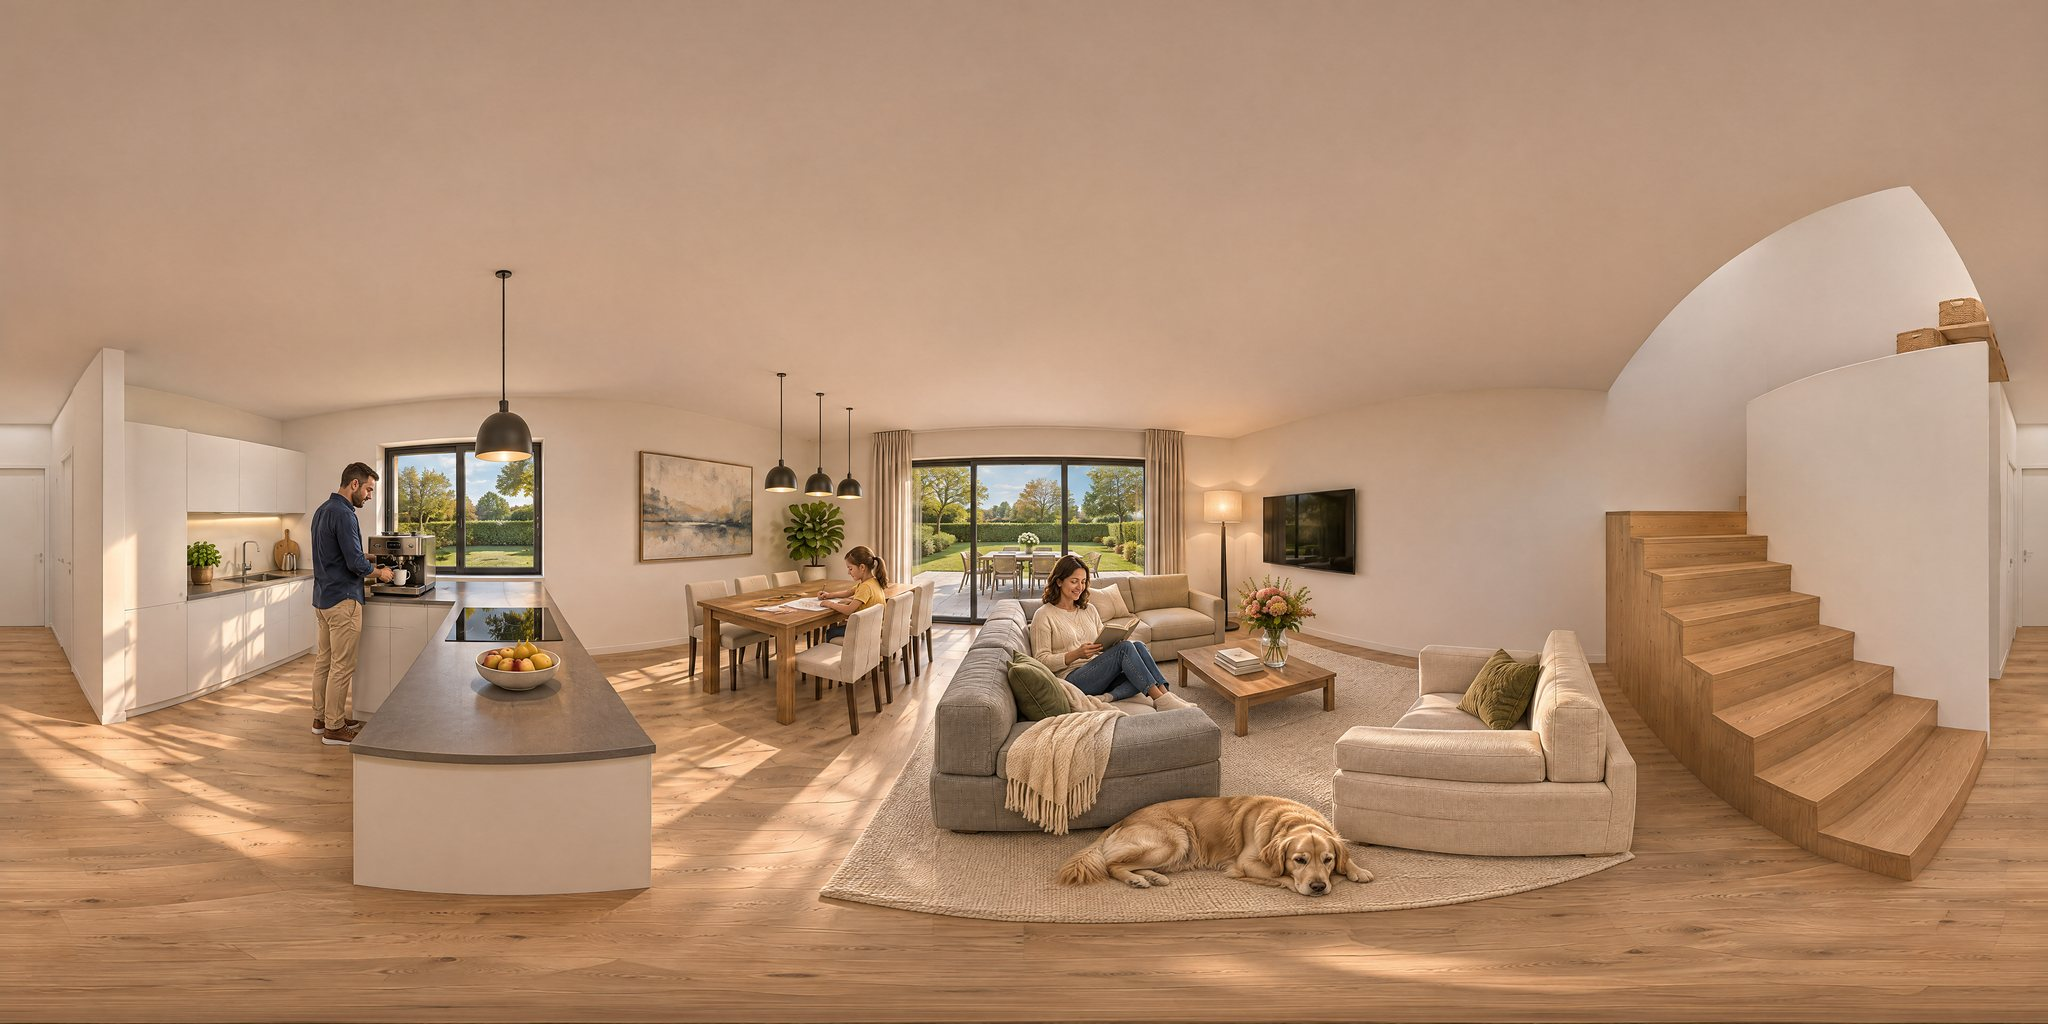
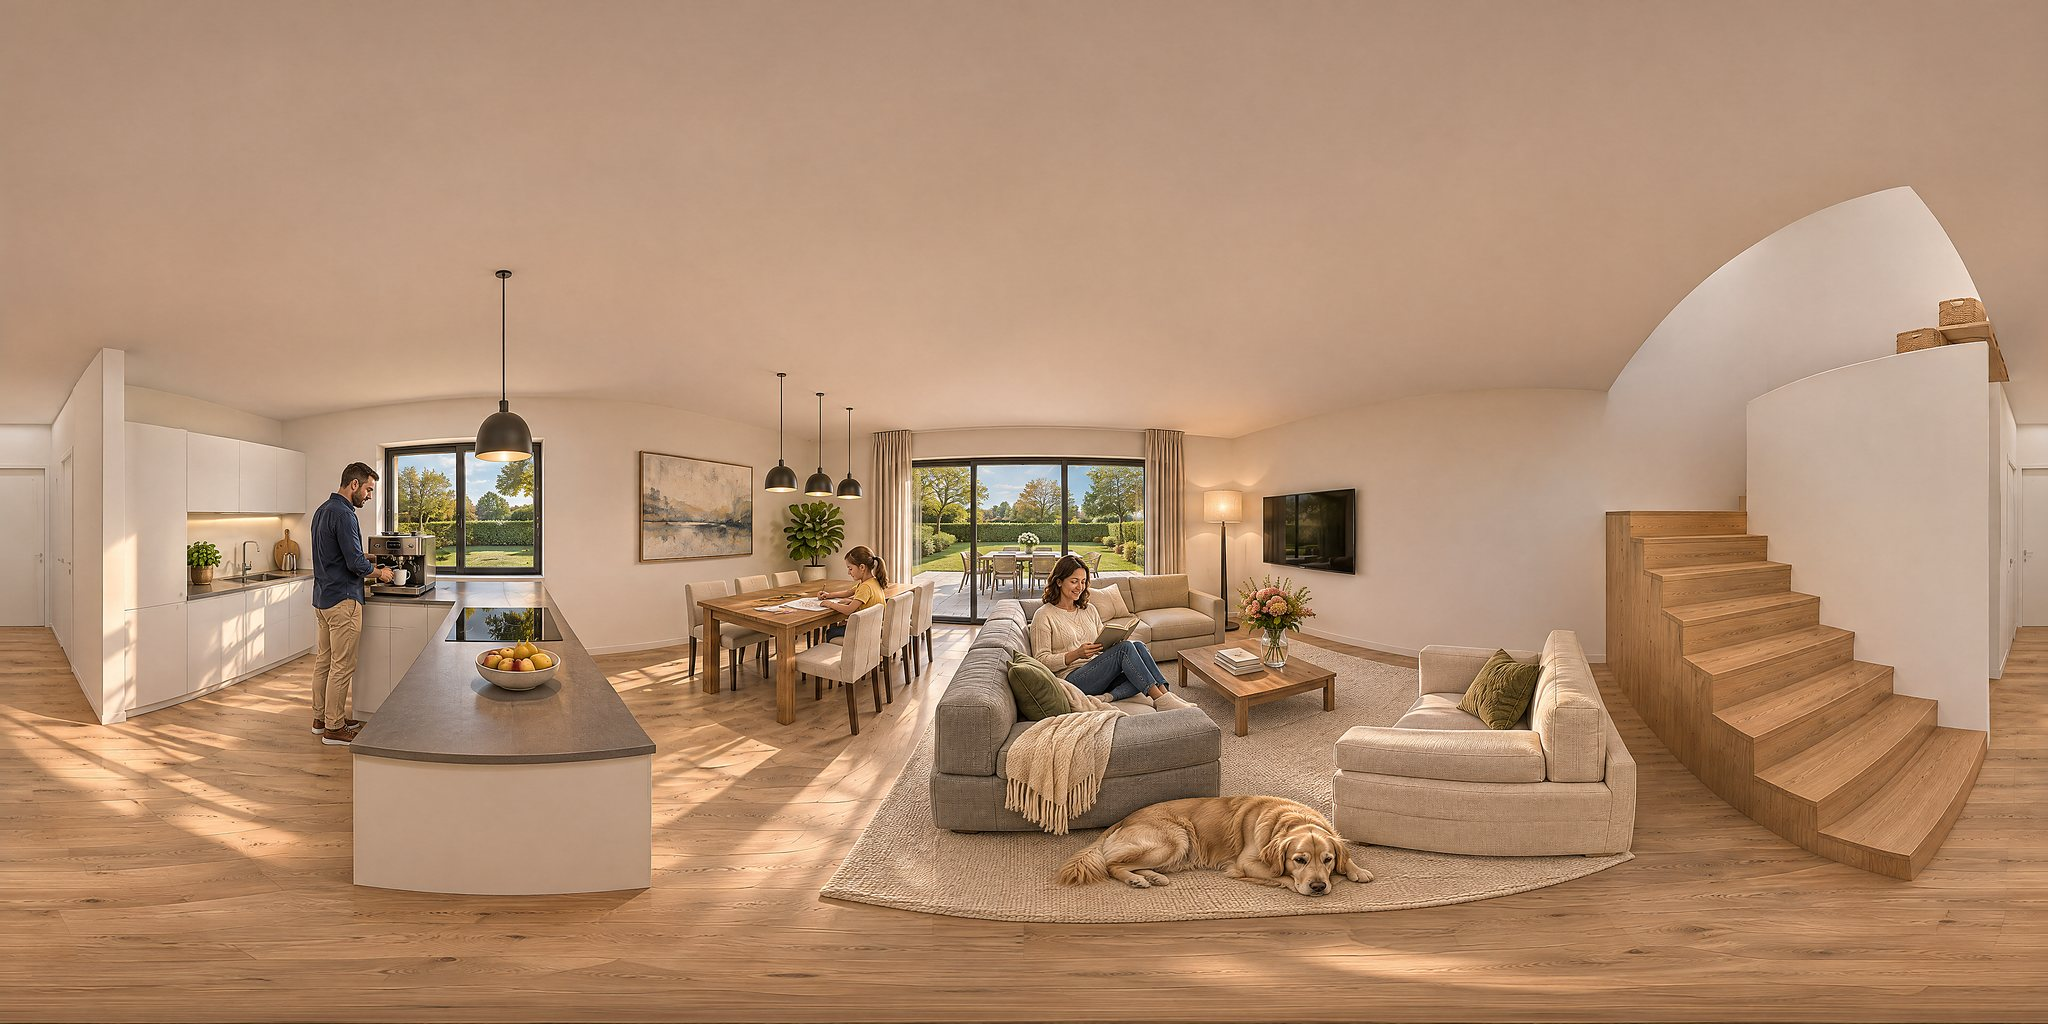
Spacer: ostrzejsze panoramy

diff --git a/js/spacer.js b/js/spacer.js
@@ -150,7 +150,7 @@
   });
 
   // ruch: przeciąganie z wybiegiem, powolny obrót do pierwszego dotknięcia, przybliżanie
-  function ogranicz() { pitch = Math.max(-1.25, Math.min(1.25, pitch)); fov = Math.max(40 * RAD, Math.min(95 * RAD, fov)); }
+  function ogranicz() { pitch = Math.max(-1.25, Math.min(1.25, pitch)); fov = Math.max(52 * RAD, Math.min(95 * RAD, fov)); }
   function dotkniete() { if (!ruszone) { ruszone = true; pole.classList.add('spacer--ruszony'); } }
   function tyka(t) {
     var dt = Math.min(50, t - ost || 16); ost = t;
